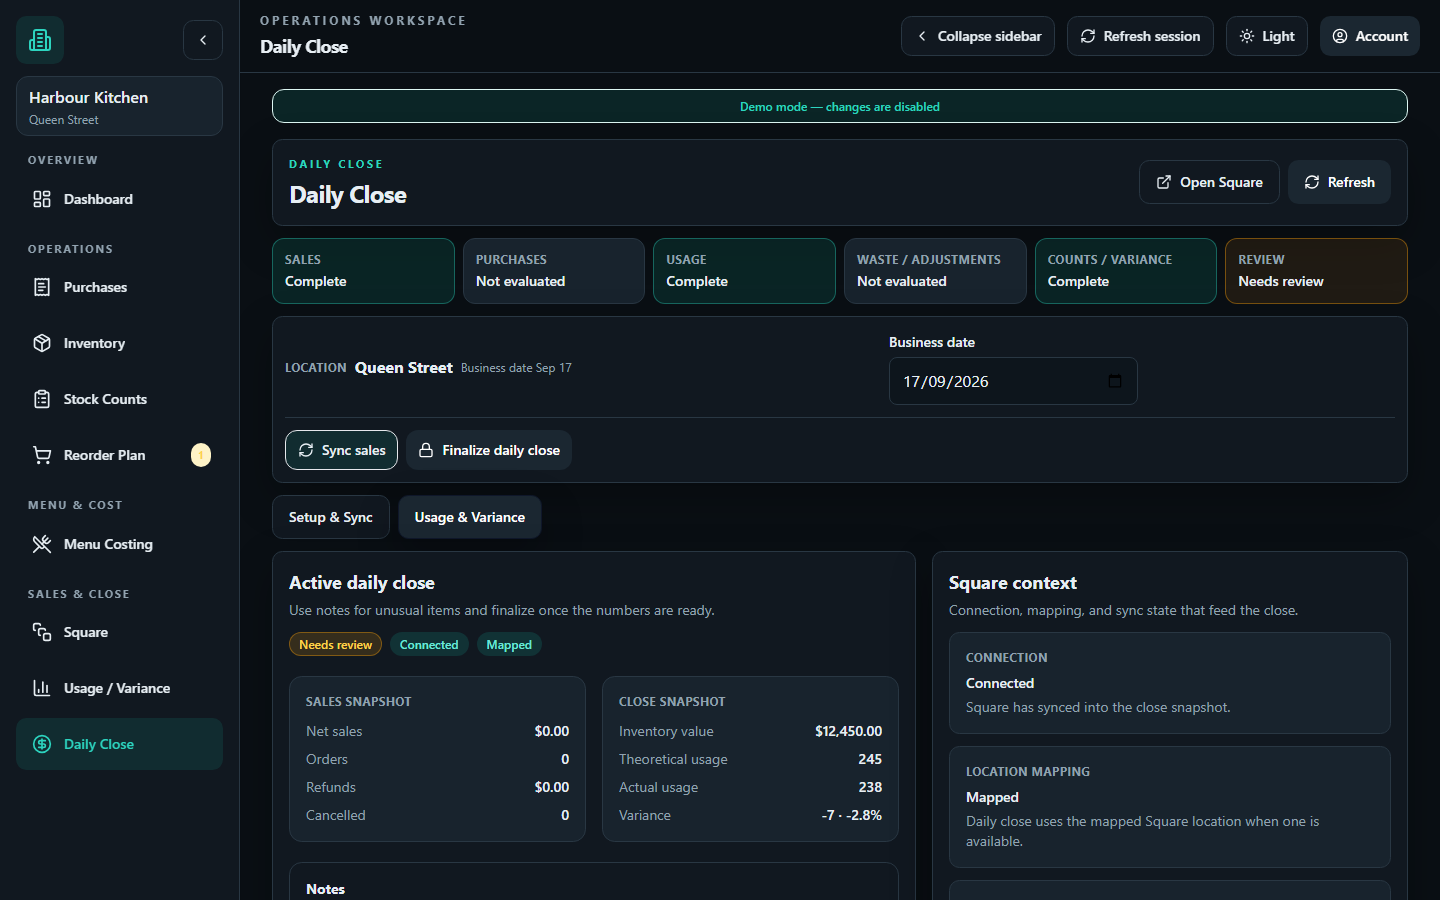
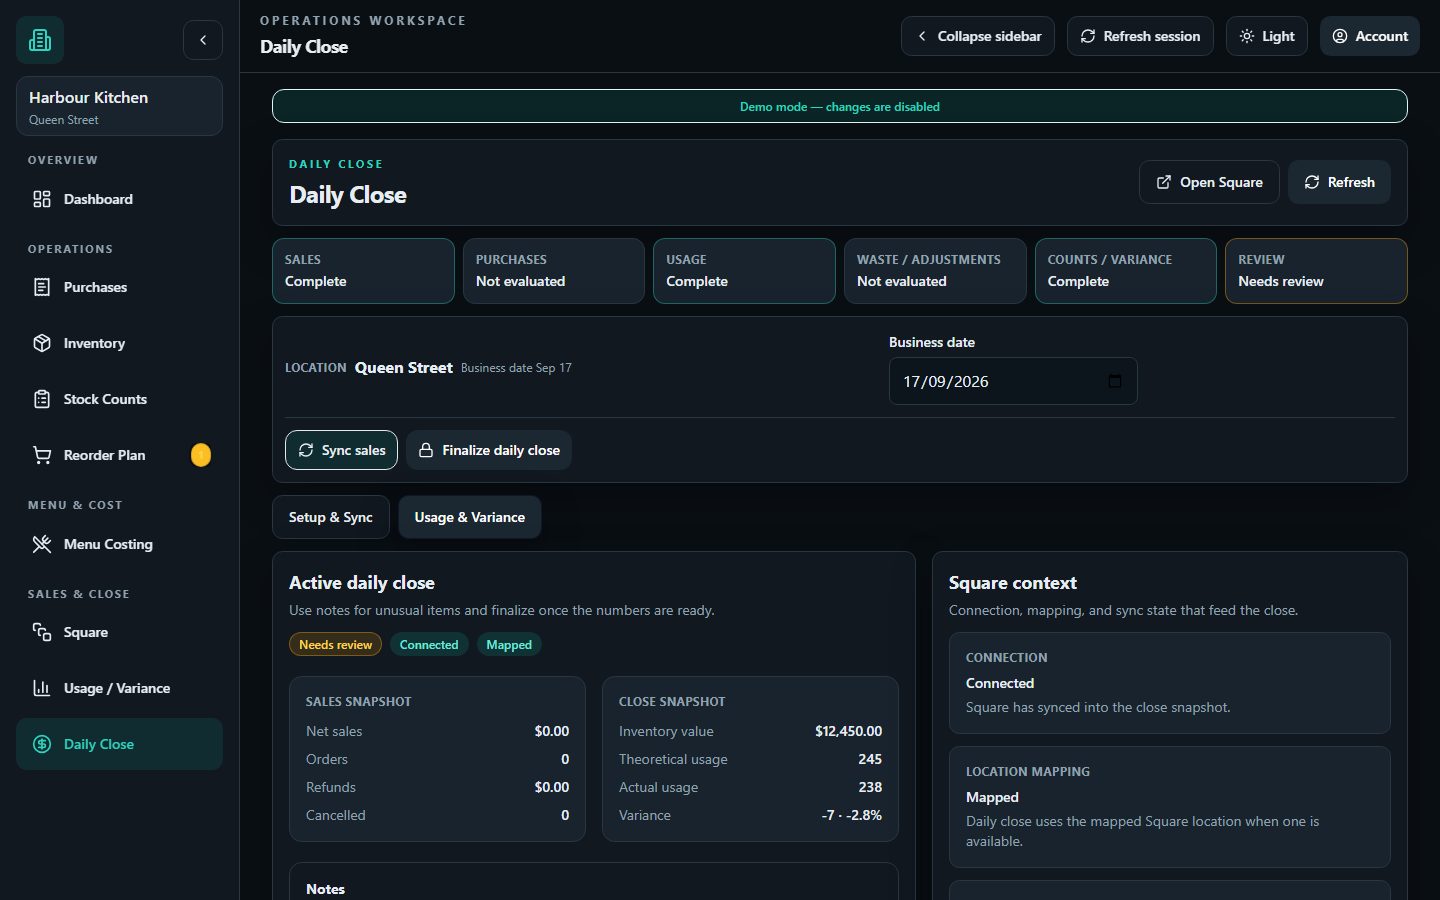
Refine dark operational surfaces

Changed region(s): [[0.8438, 0.2489, 1.0, 0.3422], [0.125, 0.4978, 0.1562, 0.5289]]

diff --git a/src/styles.css b/src/styles.css
@@ -178,6 +178,18 @@ textarea.input {
   background: #f8fafc;
 }
 
+.pilot-usage-shell > div {
+  width: 100%;
+  max-width: 1760px;
+  padding: 1rem 2rem;
+}
+
+@media (max-width: 639px) {
+  .pilot-usage-shell > div {
+    padding: 1rem;
+  }
+}
+
 .reveal {
   animation: reveal-up 0.8s ease both;
   animation-timeline: view();
@@ -310,23 +322,35 @@ textarea.input {
 /* Operational feedback surfaces stay dark while retaining semantic colour. */
 .pilot-theme-dark .bg-amber-50,
 .pilot-theme-dark .bg-amber-50\/50,
+.pilot-theme-dark .bg-amber-50\/70,
 .pilot-theme-dark .daily-close-progress-card[data-state="needs-review"],
 .pilot-theme-dark .purchase-review-item {
-  background: rgba(120, 76, 18, 0.2) !important;
+  background: var(--pilot-surface-muted) !important;
   border-color: rgba(245, 158, 11, 0.42) !important;
 }
 
 .pilot-theme-dark .bg-emerald-50,
 .pilot-theme-dark .daily-close-progress-card[data-state="complete"],
 .pilot-theme-dark .daily-close-no-blockers {
-  background: rgba(11, 78, 71, 0.34) !important;
+  background: var(--pilot-surface-muted) !important;
   border-color: rgba(45, 212, 191, 0.38) !important;
 }
 
 .pilot-theme-dark .bg-rose-50,
 .pilot-theme-dark .bg-red-50 {
-  background: rgba(127, 29, 29, 0.24) !important;
+  background: var(--pilot-surface-muted) !important;
   border-color: rgba(248, 113, 113, 0.38) !important;
+}
+
+.pilot-theme-dark .pilot-reorder-badge {
+  background: #fbbf24 !important;
+  color: #111827 !important;
+  box-shadow: 0 0 0 2px var(--pilot-bg), inset 0 0 0 1px rgba(17, 24, 39, 0.18);
+}
+
+.pilot-theme-dark .pilot-usage-shell {
+  min-height: 0;
+  background: transparent !important;
 }
 
 .pilot-theme-dark .text-amber-900,
@@ -455,8 +479,14 @@ textarea.input {
 }
 
 .pilot-theme-dark .pilot-inventory-reference tbody tr,
-.pilot-theme-dark .pilot-inventory-reference tbody tr.bg-white {
+.pilot-theme-dark .pilot-inventory-reference tbody tr.bg-white,
+.pilot-theme-dark .workspace-table-wrap tbody tr,
+.pilot-theme-dark .workspace-table-wrap tbody tr.bg-white {
   background: var(--pilot-surface) !important;
+}
+
+.pilot-theme-dark .pilot-stock-counts-page .workspace-table-wrap {
+  overflow-y: hidden;
 }
 
 .pilot-theme-dark .pilot-inventory-reference tbody tr:hover {

diff --git a/src/pilot/PilotSquareUsagePage.tsx b/src/pilot/PilotSquareUsagePage.tsx
@@ -249,7 +249,7 @@ export function PilotSquareUsagePage() {
 
   if (!organization) {
     return (
-      <PageLayout title="Usage & Variance" eyebrow="Operations workspace">
+      <PageLayout title="Usage & Variance" eyebrow="Operations workspace" className="pilot-usage-shell">
         <Card className="p-6">
           <h1 className="text-2xl font-bold text-ink">Choose an organization first</h1>
           <p className="mt-3 text-sm leading-6 text-muted">The usage workspace needs an active organization and location.</p>
@@ -259,7 +259,7 @@ export function PilotSquareUsagePage() {
   }
 
   return (
-    <PageLayout title="Usage & Variance" eyebrow="Operations workspace">
+    <PageLayout title="Usage & Variance" eyebrow="Operations workspace" className="pilot-usage-shell">
       <div className="flex flex-wrap gap-2">
         <Link className={squareSectionLinkClasses(false)} to="/app/square">
           Setup & Sync

diff --git a/src/pilot/PilotWorkspaceLayout.tsx b/src/pilot/PilotWorkspaceLayout.tsx
@@ -68,7 +68,7 @@ function NavItem({
       <span className="flex h-7 w-7 shrink-0 items-center justify-center text-current">{icon}</span>
       <span className={collapsed ? "sr-only" : "flex min-w-0 flex-1 items-center justify-between gap-2 truncate"}>
         <span className="truncate">{label}</span>
-        {badge && badge > 0 ? <span className="inline-flex min-w-5 items-center justify-center rounded-full bg-amber-100 px-1.5 py-0.5 text-[11px] font-bold text-amber-900" aria-label={`${badge} needs attention`}>{badge}</span> : null}
+        {badge && badge > 0 ? <span className="pilot-reorder-badge inline-flex min-w-5 items-center justify-center rounded-full bg-amber-100 px-1.5 py-0.5 text-[11px] font-bold text-amber-900" aria-label={`${badge} needs attention`}>{badge}</span> : null}
       </span>
     </NavLink>
   );

diff --git a/src/components/PageLayout.tsx b/src/components/PageLayout.tsx
@@ -6,14 +6,15 @@ interface PageLayoutProps {
   eyebrow?: string;
   description?: string;
   children: ReactNode;
+  className?: string;
 }
 
-export function PageLayout({ title, eyebrow, description, children }: PageLayoutProps) {
+export function PageLayout({ title, eyebrow, description, children, className = "" }: PageLayoutProps) {
   const demo = useDemoProfile();
   const resolvedEyebrow = eyebrow ?? `${demo.customization.restaurantName} / ${demo.period}`;
 
   return (
-    <main className="min-h-screen bg-slate-50">
+    <main className={`min-h-screen bg-slate-50 ${className}`}>
       <div className="mx-auto max-w-7xl px-5 py-7 lg:px-8">
         <div className="mb-6">
           <p className="text-sm font-semibold uppercase tracking-wide text-muted">{resolvedEyebrow}</p>

diff --git a/src/pilot/PilotStockCountsPage.tsx b/src/pilot/PilotStockCountsPage.tsx
@@ -369,7 +369,7 @@ export function PilotStockCountsPage() {
   };
 
   return (
-    <div className="workspace-page">
+    <div className="workspace-page pilot-stock-counts-page">
       <Card className="surface-panel workspace-card p-3">
         <div className="flex flex-col gap-2 lg:flex-row lg:items-center lg:justify-between">
           <div className="max-w-3xl">
